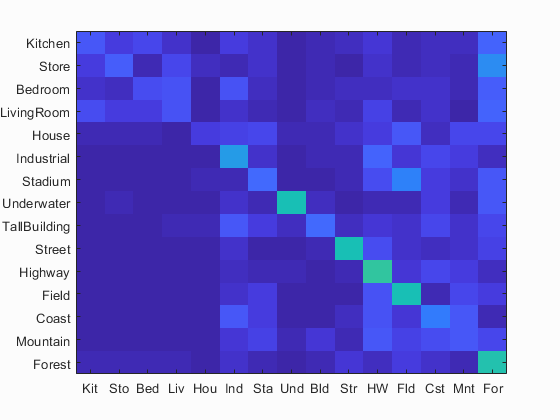
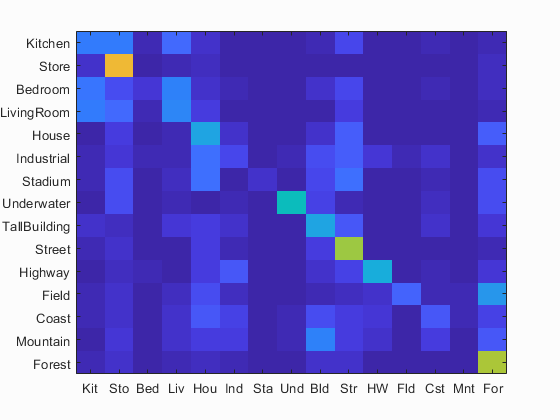
final code 2

diff --git a/Code/results_webpage/index.html b/Code/results_webpage/index.html
@@ -36,7 +36,7 @@ h1 {
 <img src="confusion_matrix.png">
 
 <br>
-Accuracy (mean of diagonal of confusion matrix) is 0.299
+Accuracy (mean of diagonal of confusion matrix) is 0.337
 <p>
 
 <table border=0 cellpadding=4 cellspacing=1>
@@ -50,183 +50,183 @@ Accuracy (mean of diagonal of confusion matrix) is 0.299
 </tr>
 <tr>
 <td>Kitchen</td>
-<td>0.160</td>
-<td bgcolor=LightBlue><img src="thumbnails/Kitchen_sun_acgtpgfybqjmzeyw.jpg" width=101 height=75></td>
-<td bgcolor=LightBlue><img src="thumbnails/Kitchen_sun_acgilwmyulcwzknd.jpg" width=101 height=75></td>
-<td bgcolor=LightGreen><img src="thumbnails/Kitchen_sun_aaxhazbcsixzxyca.jpg" width=101 height=75></td>
-<td bgcolor=LightGreen><img src="thumbnails/Kitchen_sun_aahxnzrpowefyvrp.jpg" width=113 height=75></td>
-<td bgcolor=LightCoral><img src="thumbnails/Bedroom_sun_acddebisonjmjrum.jpg" width=113 height=75><br><small>Bedroom</small></td>
-<td bgcolor=LightCoral><img src="thumbnails/House_sun_aqjtmgnkfqgtzztq.jpg" width=75 height=75><br><small>House</small></td>
-<td bgcolor=#FFBB55><img src="thumbnails/Kitchen_sun_aarfiyshqohlwkmo.jpg" width=101 height=75><br><small>LivingRoom</small></td>
-<td bgcolor=#FFBB55><img src="thumbnails/Kitchen_sun_abjslsjubphrtnmz.jpg" width=101 height=75><br><small>Store</small></td>
+<td>0.260</td>
+<td bgcolor=LightBlue><img src="thumbnails/Kitchen_sun_abrhpazvtygrpabg.jpg" width=113 height=75></td>
+<td bgcolor=LightBlue><img src="thumbnails/Kitchen_sun_acyvmyzypyuwnann.jpg" width=113 height=75></td>
+<td bgcolor=LightGreen><img src="thumbnails/Kitchen_sun_aalrsaxeqqthtwnd.jpg" width=113 height=75></td>
+<td bgcolor=LightGreen><img src="thumbnails/Kitchen_sun_aaustmdcrmpnsotk.jpg" width=101 height=75></td>
+<td bgcolor=LightCoral><img src="thumbnails/Field_sun_aktqrmsokwsuvoth.jpg" width=152 height=75><br><small>Field</small></td>
+<td bgcolor=LightCoral><img src="thumbnails/Bedroom_sun_abqcoikkmypgtrdd.jpg" width=75 height=75><br><small>Bedroom</small></td>
+<td bgcolor=#FFBB55><img src="thumbnails/Kitchen_sun_aatcxjrhafurspvj.jpg" width=50 height=75><br><small>House</small></td>
+<td bgcolor=#FFBB55><img src="thumbnails/Kitchen_sun_abhciiurocosucnf.jpg" width=75 height=75><br><small>LivingRoom</small></td>
 </tr>
 <tr>
 <td>Store</td>
-<td>0.180</td>
-<td bgcolor=LightBlue><img src="thumbnails/Store_sun_adgiqjbmhjyznpgu.jpg" width=113 height=75></td>
-<td bgcolor=LightBlue><img src="thumbnails/Store_sun_byjctpevjwseqrxf.jpg" width=101 height=75></td>
-<td bgcolor=LightGreen><img src="thumbnails/Store_sun_apjicnpesqgxbdxw.jpg" width=101 height=75></td>
+<td>0.800</td>
+<td bgcolor=LightBlue><img src="thumbnails/Store_sun_afkjwiparjsetthc.jpg" width=101 height=75></td>
+<td bgcolor=LightBlue><img src="thumbnails/Store_sun_aalfiypbfjdjzemm.jpg" width=118 height=75></td>
 <td bgcolor=LightGreen><img src="thumbnails/Store_sun_aprgkfbahwiwnnhu.jpg" width=100 height=75></td>
-<td bgcolor=LightCoral><img src="thumbnails/LivingRoom_sun_addyuymtidtjkeba.jpg" width=75 height=75><br><small>LivingRoom</small></td>
-<td bgcolor=LightCoral><img src="thumbnails/Kitchen_sun_abfxpyvmghjuoery.jpg" width=100 height=75><br><small>Kitchen</small></td>
-<td bgcolor=#FFBB55><img src="thumbnails/Store_sun_aorsamfomxnvyjdt.jpg" width=101 height=75><br><small>Forest</small></td>
-<td bgcolor=#FFBB55><img src="thumbnails/Store_sun_ahdmcrpctauhppeh.jpg" width=75 height=75><br><small>Street</small></td>
+<td bgcolor=LightGreen><img src="thumbnails/Store_sun_aqvwxcsdmkvrvkpd.jpg" width=101 height=75></td>
+<td bgcolor=LightCoral><img src="thumbnails/House_sun_asnvwxxhnvonkrkp.jpg" width=113 height=75><br><small>House</small></td>
+<td bgcolor=LightCoral><img src="thumbnails/Underwater_sun_adkjypkoinbdysor.jpg" width=101 height=75><br><small>Underwater</small></td>
+<td bgcolor=#FFBB55><img src="thumbnails/Store_sun_akrptximpgaceasz.jpg" width=113 height=75><br><small>Kitchen</small></td>
+<td bgcolor=#FFBB55><img src="thumbnails/Store_sun_ahggldqhbnigmoin.jpg" width=101 height=75><br><small>House</small></td>
 </tr>
 <tr>
 <td>Bedroom</td>
-<td>0.130</td>
-<td bgcolor=LightBlue><img src="thumbnails/Bedroom_sun_aaihqfmkpqtetkcm.jpg" width=96 height=75></td>
+<td>0.070</td>
+<td bgcolor=LightBlue><img src="thumbnails/Bedroom_sun_aaxfqfzrjwrlfwuf.jpg" width=104 height=75></td>
 <td bgcolor=LightBlue><img src="thumbnails/Bedroom_sun_aawjggvltirxefrr.jpg" width=101 height=75></td>
-<td bgcolor=LightGreen><img src="thumbnails/Bedroom_sun_acrblweratfwhjlk.jpg" width=101 height=75></td>
-<td bgcolor=LightGreen><img src="thumbnails/Bedroom_sun_acpltpfqpzmxrlic.jpg" width=113 height=75></td>
-<td bgcolor=LightCoral><img src="thumbnails/Forest_sun_aumicqkpsriqigql.jpg" width=75 height=75><br><small>Forest</small></td>
-<td bgcolor=LightCoral><img src="thumbnails/Kitchen_sun_aamjqvjnuxklyagf.jpg" width=57 height=75><br><small>Kitchen</small></td>
-<td bgcolor=#FFBB55><img src="thumbnails/Bedroom_sun_acbfjkoziukwmdkd.jpg" width=57 height=75><br><small>Highway</small></td>
-<td bgcolor=#FFBB55><img src="thumbnails/Bedroom_sun_acjiztdaadlmjhif.jpg" width=67 height=75><br><small>Kitchen</small></td>
+<td bgcolor=LightGreen><img src="thumbnails/Bedroom_sun_abvzemlagkvnzeew.jpg" width=75 height=75></td>
+<td bgcolor=LightGreen><img src="thumbnails/Bedroom_sun_acqgccujxkaytvbx.jpg" width=113 height=75></td>
+<td bgcolor=LightCoral><img src="thumbnails/Kitchen_sun_aaebjpeispxohmfv.jpg" width=105 height=75><br><small>Kitchen</small></td>
+<td bgcolor=LightCoral><img src="thumbnails/Store_sun_arcnfcmzthrstpsa.jpg" width=116 height=75><br><small>Store</small></td>
+<td bgcolor=#FFBB55><img src="thumbnails/Bedroom_sun_acddebisonjmjrum.jpg" width=113 height=75><br><small>House</small></td>
+<td bgcolor=#FFBB55><img src="thumbnails/Bedroom_sun_abmenhebvjhdawgh.jpg" width=101 height=75><br><small>Kitchen</small></td>
 </tr>
 <tr>
 <td>LivingRoom</td>
-<td>0.150</td>
-<td bgcolor=LightBlue><img src="thumbnails/LivingRoom_sun_aafhyzjkeaurxqbv.jpg" width=75 height=75></td>
-<td bgcolor=LightBlue><img src="thumbnails/LivingRoom_sun_ablsyukzgzgqfptu.jpg" width=81 height=75></td>
-<td bgcolor=LightGreen><img src="thumbnails/LivingRoom_sun_acgjjumjehdvwzdq.jpg" width=112 height=75></td>
-<td bgcolor=LightGreen><img src="thumbnails/LivingRoom_sun_acrnnwrdclnsvtby.jpg" width=75 height=75></td>
-<td bgcolor=LightCoral><img src="thumbnails/Street_sun_axkgzdlcbddcoqfl.jpg" width=75 height=75><br><small>Street</small></td>
-<td bgcolor=LightCoral><img src="thumbnails/Store_sun_anmpdotwmccmnrtr.jpg" width=75 height=75><br><small>Store</small></td>
-<td bgcolor=#FFBB55><img src="thumbnails/LivingRoom_sun_abmhxsodaptaogbq.jpg" width=110 height=75><br><small>Field</small></td>
-<td bgcolor=#FFBB55><img src="thumbnails/LivingRoom_sun_acgaxydpxiuklxvk.jpg" width=75 height=75><br><small>Store</small></td>
+<td>0.290</td>
+<td bgcolor=LightBlue><img src="thumbnails/LivingRoom_sun_aagveymsoisqqxlv.jpg" width=75 height=75></td>
+<td bgcolor=LightBlue><img src="thumbnails/LivingRoom_sun_aaqmeqbrenawkxxp.jpg" width=75 height=75></td>
+<td bgcolor=LightGreen><img src="thumbnails/LivingRoom_sun_acynqpvvxnpabyro.jpg" width=114 height=75></td>
+<td bgcolor=LightGreen><img src="thumbnails/LivingRoom_sun_addinypctrsdgwya.jpg" width=113 height=75></td>
+<td bgcolor=LightCoral><img src="thumbnails/Store_sun_aqjwciodhwilnihu.jpg" width=101 height=75><br><small>Store</small></td>
+<td bgcolor=LightCoral><img src="thumbnails/Bedroom_sun_acibkqiysswuixjr.jpg" width=57 height=75><br><small>Bedroom</small></td>
+<td bgcolor=#FFBB55><img src="thumbnails/LivingRoom_sun_adcmuipvbtjzrpmg.jpg" width=113 height=75><br><small>Kitchen</small></td>
+<td bgcolor=#FFBB55><img src="thumbnails/LivingRoom_sun_accehvvhhielogdb.jpg" width=75 height=75><br><small>Store</small></td>
 </tr>
 <tr>
 <td>House</td>
-<td>0.090</td>
-<td bgcolor=LightBlue><img src="thumbnails/House_sun_adlezyqdqzhboavh.jpg" width=75 height=75></td>
-<td bgcolor=LightBlue><img src="thumbnails/House_sun_agadklgfaixzqcdx.jpg" width=75 height=75></td>
-<td bgcolor=LightGreen><img src="thumbnails/House_sun_awoutdjtqmknttqu.jpg" width=89 height=75></td>
-<td bgcolor=LightGreen><img src="thumbnails/House_sun_baexsqstopvlczqa.jpg" width=94 height=75></td>
-<td bgcolor=LightCoral><img src="thumbnails/Street_sun_auvoyujctcsgiumc.jpg" width=75 height=75><br><small>Street</small></td>
-<td bgcolor=LightCoral><img src="thumbnails/Bedroom_sun_abrfwthdzagzztaq.jpg" width=75 height=75><br><small>Bedroom</small></td>
-<td bgcolor=#FFBB55><img src="thumbnails/House_sun_auukbqrztmufeeuk.jpg" width=99 height=75><br><small>Mountain</small></td>
-<td bgcolor=#FFBB55><img src="thumbnails/House_sun_awalzgxhnukydwfh.jpg" width=75 height=75><br><small>Industrial</small></td>
+<td>0.390</td>
+<td bgcolor=LightBlue><img src="thumbnails/House_sun_akkktcsquettazia.jpg" width=75 height=75></td>
+<td bgcolor=LightBlue><img src="thumbnails/House_sun_aibowohbydzpqdxu.jpg" width=109 height=75></td>
+<td bgcolor=LightGreen><img src="thumbnails/House_sun_arkdextmxlmcbmtl.jpg" width=75 height=75></td>
+<td bgcolor=LightGreen><img src="thumbnails/House_sun_atmxagnedtlvihld.jpg" width=75 height=75></td>
+<td bgcolor=LightCoral><img src="thumbnails/Field_sun_aiqljudoviqlwaes.jpg" width=75 height=75><br><small>Field</small></td>
+<td bgcolor=LightCoral><img src="thumbnails/Stadium_sun_aekjenipocpkloxl.jpg" width=113 height=75><br><small>Stadium</small></td>
+<td bgcolor=#FFBB55><img src="thumbnails/House_sun_bagrgybtgqawoifh.jpg" width=101 height=75><br><small>Street</small></td>
+<td bgcolor=#FFBB55><img src="thumbnails/House_sun_anyjsyphphakbpbq.jpg" width=110 height=75><br><small>Store</small></td>
 </tr>
 <tr>
 <td>Industrial</td>
-<td>0.350</td>
-<td bgcolor=LightBlue><img src="thumbnails/Industrial_sun_aznzspxqejoornbs.jpg" width=75 height=75></td>
-<td bgcolor=LightBlue><img src="thumbnails/Industrial_sun_avyysdjjjyxjbeoa.jpg" width=98 height=75></td>
-<td bgcolor=LightGreen><img src="thumbnails/Industrial_sun_agndzvxfhdciuqob.jpg" width=75 height=75></td>
-<td bgcolor=LightGreen><img src="thumbnails/Industrial_sun_akstvxwocpozpqrf.jpg" width=110 height=75></td>
-<td bgcolor=LightCoral><img src="thumbnails/Bedroom_sun_acfxerynbhnvtpab.jpg" width=75 height=75><br><small>Bedroom</small></td>
-<td bgcolor=LightCoral><img src="thumbnails/Coast_sun_aaarffxrewgissla.jpg" width=75 height=75><br><small>Coast</small></td>
-<td bgcolor=#FFBB55><img src="thumbnails/Industrial_sun_auwwqdrexendpiqt.jpg" width=99 height=75><br><small>Mountain</small></td>
-<td bgcolor=#FFBB55><img src="thumbnails/Industrial_sun_awxsoiwzmnphfasi.jpg" width=113 height=75><br><small>Mountain</small></td>
+<td>0.110</td>
+<td bgcolor=LightBlue><img src="thumbnails/Industrial_sun_akxmtzyzeobssoqs.jpg" width=75 height=75></td>
+<td bgcolor=LightBlue><img src="thumbnails/Industrial_sun_axjkvelsfrotjhti.jpg" width=75 height=75></td>
+<td bgcolor=LightGreen><img src="thumbnails/Industrial_sun_abqbyyxvedmxtutv.jpg" width=75 height=75></td>
+<td bgcolor=LightGreen><img src="thumbnails/Industrial_sun_agptkbkzgbldtlry.jpg" width=75 height=75></td>
+<td bgcolor=LightCoral><img src="thumbnails/House_sun_awyiuqdptibtzfuh.jpg" width=75 height=75><br><small>House</small></td>
+<td bgcolor=LightCoral><img src="thumbnails/Forest_sun_atmrwrneqsvfgvoh.jpg" width=75 height=75><br><small>Forest</small></td>
+<td bgcolor=#FFBB55><img src="thumbnails/Industrial_sun_azvwzrparkceqdze.jpg" width=60 height=75><br><small>Kitchen</small></td>
+<td bgcolor=#FFBB55><img src="thumbnails/Industrial_sun_alflnbhxiludczue.jpg" width=108 height=75><br><small>House</small></td>
 </tr>
 <tr>
 <td>Stadium</td>
-<td>0.210</td>
-<td bgcolor=LightBlue><img src="thumbnails/Stadium_sun_bmhvmfspirmufbdq.jpg" width=113 height=75></td>
-<td bgcolor=LightBlue><img src="thumbnails/Stadium_sun_bnpaprtetytpnpcj.jpg" width=101 height=75></td>
-<td bgcolor=LightGreen><img src="thumbnails/Stadium_sun_adtpvzvlcrbfestm.jpg" width=101 height=75></td>
-<td bgcolor=LightGreen><img src="thumbnails/Stadium_sun_adocalsqcsdehjjs.jpg" width=101 height=75></td>
-<td bgcolor=LightCoral><img src="thumbnails/House_sun_aqbegmxbmsvqrdyi.jpg" width=75 height=75><br><small>House</small></td>
-<td bgcolor=LightCoral><img src="thumbnails/Industrial_sun_bgcejxbnflggssns.jpg" width=103 height=75><br><small>Industrial</small></td>
-<td bgcolor=#FFBB55><img src="thumbnails/Stadium_sun_aeyqfhmwgjfrdyrm.jpg" width=115 height=75><br><small>Coast</small></td>
-<td bgcolor=#FFBB55><img src="thumbnails/Stadium_sun_abokpgasqaoqeoon.jpg" width=113 height=75><br><small>Field</small></td>
+<td>0.060</td>
+<td bgcolor=LightBlue><img src="thumbnails/Stadium_sun_bmecotvfoykmrmyi.jpg" width=101 height=75></td>
+<td bgcolor=LightBlue><img src="thumbnails/Stadium_sun_biuytmjiftzihfty.jpg" width=114 height=75></td>
+<td bgcolor=LightGreen><img src="thumbnails/Stadium_sun_abjchhflzcfjwmii.jpg" width=101 height=75></td>
+<td bgcolor=LightGreen><img src="thumbnails/Stadium_sun_abgafrwqrmmzarrn.jpg" width=113 height=75></td>
+<td bgcolor=LightCoral><img src="thumbnails/Field_sun_alahofzqscsnazqd.jpg" width=75 height=75><br><small>Field</small></td>
+<td bgcolor=LightCoral><img src="thumbnails/House_sun_ayhetobllsawgmnd.jpg" width=102 height=75><br><small>House</small></td>
+<td bgcolor=#FFBB55><img src="thumbnails/Stadium_sun_alkrejfunzeugccg.jpg" width=100 height=75><br><small>Kitchen</small></td>
+<td bgcolor=#FFBB55><img src="thumbnails/Stadium_sun_akppbcspfdkylkhf.jpg" width=101 height=75><br><small>Street</small></td>
 </tr>
 <tr>
 <td>Underwater</td>
-<td>0.510</td>
-<td bgcolor=LightBlue><img src="thumbnails/Underwater_sun_auldlqtjmrrfkati.jpg" width=101 height=75></td>
-<td bgcolor=LightBlue><img src="thumbnails/Underwater_sun_andydmqzeqtyxcyq.jpg" width=95 height=75></td>
-<td bgcolor=LightGreen><img src="thumbnails/Underwater_sun_aguvbkbdntbqknaq.jpg" width=101 height=75></td>
-<td bgcolor=LightGreen><img src="thumbnails/Underwater_sun_acbsnpvliwldelek.jpg" width=101 height=75></td>
-<td bgcolor=LightCoral><img src="thumbnails/Mountain_sun_aghwzplqgxjzlnyd.jpg" width=75 height=75><br><small>Mountain</small></td>
-<td bgcolor=LightCoral><img src="thumbnails/TallBuilding_sun_aepzkdbjbgivrcpd.jpg" width=75 height=75><br><small>TallBuilding</small></td>
-<td bgcolor=#FFBB55><img src="thumbnails/Underwater_sun_adlaimceocajnwtz.jpg" width=101 height=75><br><small>Mountain</small></td>
-<td bgcolor=#FFBB55><img src="thumbnails/Underwater_sun_ahqimhlnpqkcvdrc.jpg" width=57 height=75><br><small>Coast</small></td>
+<td>0.490</td>
+<td bgcolor=LightBlue><img src="thumbnails/Underwater_sun_avvmllycrsurauah.jpg" width=112 height=75></td>
+<td bgcolor=LightBlue><img src="thumbnails/Underwater_sun_aswawzdpxawhslfa.jpg" width=109 height=75></td>
+<td bgcolor=LightGreen><img src="thumbnails/Underwater_sun_adtdrtzcgbwwxeup.jpg" width=134 height=75></td>
+<td bgcolor=LightGreen><img src="thumbnails/Underwater_sun_adjuhwipwtlagrbj.jpg" width=75 height=75></td>
+<td bgcolor=LightCoral><img src="thumbnails/Coast_sun_afrnhylmaqjmqevm.jpg" width=75 height=75><br><small>Coast</small></td>
+<td bgcolor=LightCoral><img src="thumbnails/Field_sun_ajuwfyfguatiomxh.jpg" width=122 height=75><br><small>Field</small></td>
+<td bgcolor=#FFBB55><img src="thumbnails/Underwater_sun_adkjypkoinbdysor.jpg" width=101 height=75><br><small>Store</small></td>
+<td bgcolor=#FFBB55><img src="thumbnails/Underwater_sun_ahdxurulllcopwhb.jpg" width=75 height=75><br><small>Store</small></td>
 </tr>
 <tr>
 <td>TallBuilding</td>
-<td>0.210</td>
-<td bgcolor=LightBlue><img src="thumbnails/TallBuilding_sun_ajnfojgfvjoqlgnp.jpg" width=75 height=75></td>
-<td bgcolor=LightBlue><img src="thumbnails/TallBuilding_sun_ajyqytzxqawmabro.jpg" width=75 height=75></td>
-<td bgcolor=LightGreen><img src="thumbnails/TallBuilding_sun_aehzemcwfrbqwudh.jpg" width=75 height=75></td>
-<td bgcolor=LightGreen><img src="thumbnails/TallBuilding_sun_aaclfhnpacadfwfc.jpg" width=75 height=75></td>
-<td bgcolor=LightCoral><img src="thumbnails/Mountain_sun_aeowlstgpkupmtrs.jpg" width=75 height=75><br><small>Mountain</small></td>
-<td bgcolor=LightCoral><img src="thumbnails/Underwater_sun_akpduurapzogctbn.jpg" width=57 height=75><br><small>Underwater</small></td>
-<td bgcolor=#FFBB55><img src="thumbnails/TallBuilding_sun_afnrpcyqutbezqqa.jpg" width=75 height=75><br><small>Stadium</small></td>
-<td bgcolor=#FFBB55><img src="thumbnails/TallBuilding_sun_abehikbddjyqdkiz.jpg" width=75 height=75><br><small>Coast</small></td>
+<td>0.390</td>
+<td bgcolor=LightBlue><img src="thumbnails/TallBuilding_sun_alxbzgvalzyzumgs.jpg" width=75 height=75></td>
+<td bgcolor=LightBlue><img src="thumbnails/TallBuilding_sun_ajmekywagcnoclpo.jpg" width=75 height=75></td>
+<td bgcolor=LightGreen><img src="thumbnails/TallBuilding_sun_aaftlyfudyzuhqzf.jpg" width=75 height=75></td>
+<td bgcolor=LightGreen><img src="thumbnails/TallBuilding_sun_abhfmupcwoqjgoqx.jpg" width=75 height=75></td>
+<td bgcolor=LightCoral><img src="thumbnails/House_sun_aontpwfriwfsfuls.jpg" width=75 height=75><br><small>House</small></td>
+<td bgcolor=LightCoral><img src="thumbnails/Stadium_sun_aqighcqealimatur.jpg" width=101 height=75><br><small>Stadium</small></td>
+<td bgcolor=#FFBB55><img src="thumbnails/TallBuilding_sun_aiqqlqnxkcbsfydn.jpg" width=75 height=75><br><small>Street</small></td>
+<td bgcolor=#FFBB55><img src="thumbnails/TallBuilding_sun_aaxabpcjcwtyqakd.jpg" width=75 height=75><br><small>Street</small></td>
 </tr>
 <tr>
 <td>Street</td>
-<td>0.500</td>
+<td>0.700</td>
+<td bgcolor=LightBlue><img src="thumbnails/Street_sun_aaoukmfcmvbaszsu.jpg" width=75 height=75></td>
 <td bgcolor=LightBlue><img src="thumbnails/Street_sun_abxoxzsddjzrgdfi.jpg" width=75 height=75></td>
-<td bgcolor=LightBlue><img src="thumbnails/Street_sun_aczwveqpgvcxtjxr.jpg" width=75 height=75></td>
-<td bgcolor=LightGreen><img src="thumbnails/Street_sun_asovyrpfvgcfugug.jpg" width=75 height=75></td>
-<td bgcolor=LightGreen><img src="thumbnails/Street_sun_apztqewgqarrraxw.jpg" width=75 height=75></td>
-<td bgcolor=LightCoral><img src="thumbnails/Stadium_sun_ajersoqqetrcgtkd.jpg" width=109 height=75><br><small>Stadium</small></td>
-<td bgcolor=LightCoral><img src="thumbnails/Coast_sun_abwekjbuqgbqefvc.jpg" width=75 height=75><br><small>Coast</small></td>
-<td bgcolor=#FFBB55><img src="thumbnails/Street_sun_atkejtodbqhvppba.jpg" width=75 height=75><br><small>Coast</small></td>
-<td bgcolor=#FFBB55><img src="thumbnails/Street_sun_aptjvtqmuhhyvhuq.jpg" width=75 height=75><br><small>Forest</small></td>
+<td bgcolor=LightGreen><img src="thumbnails/Street_sun_awvwzpmymymcviha.jpg" width=75 height=75></td>
+<td bgcolor=LightGreen><img src="thumbnails/Street_sun_arubnkxrpngvgatb.jpg" width=75 height=75></td>
+<td bgcolor=LightCoral><img src="thumbnails/Mountain_sun_aizdwdtxekhhwjyk.jpg" width=75 height=75><br><small>Mountain</small></td>
+<td bgcolor=LightCoral><img src="thumbnails/Kitchen_sun_aaqwvmvwjznneezj.jpg" width=75 height=75><br><small>Kitchen</small></td>
+<td bgcolor=#FFBB55><img src="thumbnails/Street_sun_arvclwpcycqxhtuw.jpg" width=75 height=75><br><small>House</small></td>
+<td bgcolor=#FFBB55><img src="thumbnails/Street_sun_aukhrtczcxtnzqnw.jpg" width=75 height=75><br><small>House</small></td>
 </tr>
 <tr>
 <td>Highway</td>
-<td>0.550</td>
-<td bgcolor=LightBlue><img src="thumbnails/Highway_sun_ajrmvydockofxbmc.jpg" width=75 height=75></td>
-<td bgcolor=LightBlue><img src="thumbnails/Highway_sun_alngiumhylspeuor.jpg" width=75 height=75></td>
-<td bgcolor=LightGreen><img src="thumbnails/Highway_sun_abqpmuaphnohlndh.jpg" width=75 height=75></td>
-<td bgcolor=LightGreen><img src="thumbnails/Highway_sun_acjmvpnqcohuikvh.jpg" width=75 height=75></td>
-<td bgcolor=LightCoral><img src="thumbnails/Field_sun_ajdixmwjojvptuzy.jpg" width=99 height=75><br><small>Field</small></td>
-<td bgcolor=LightCoral><img src="thumbnails/Forest_sun_avldsnrntudkzowh.jpg" width=75 height=75><br><small>Forest</small></td>
-<td bgcolor=#FFBB55><img src="thumbnails/Highway_sun_adaebhgozgdowgng.jpg" width=120 height=75><br><small>Street</small></td>
-<td bgcolor=#FFBB55><img src="thumbnails/Highway_sun_abjrlpjcricwloej.jpg" width=104 height=75><br><small>Industrial</small></td>
+<td>0.420</td>
+<td bgcolor=LightBlue><img src="thumbnails/Highway_sun_altvjtcdpogizvdt.jpg" width=75 height=75></td>
+<td bgcolor=LightBlue><img src="thumbnails/Highway_sun_agwftyvijadukmms.jpg" width=75 height=75></td>
+<td bgcolor=LightGreen><img src="thumbnails/Highway_sun_adhnzylesmrmevvt.jpg" width=105 height=75></td>
+<td bgcolor=LightGreen><img src="thumbnails/Highway_sun_abwgvchaqkjqdckd.jpg" width=75 height=75></td>
+<td bgcolor=LightCoral><img src="thumbnails/Industrial_sun_aypartoqtiqxtytm.jpg" width=71 height=75><br><small>Industrial</small></td>
+<td bgcolor=LightCoral><img src="thumbnails/Field_sun_akfzxmvbtwuznhli.jpg" width=75 height=75><br><small>Field</small></td>
+<td bgcolor=#FFBB55><img src="thumbnails/Highway_sun_aeiqdwbssdzmbqec.jpg" width=101 height=75><br><small>House</small></td>
+<td bgcolor=#FFBB55><img src="thumbnails/Highway_sun_acpvugnkzrliaqir.jpg" width=101 height=75><br><small>Street</small></td>
 </tr>
 <tr>
 <td>Field</td>
-<td>0.500</td>
-<td bgcolor=LightBlue><img src="thumbnails/Field_sun_abzmppmowwqdcqov.jpg" width=115 height=75></td>
-<td bgcolor=LightBlue><img src="thumbnails/Field_sun_abgskogoveimefmq.jpg" width=75 height=75></td>
-<td bgcolor=LightGreen><img src="thumbnails/Field_sun_ajrsruozxbobnleu.jpg" width=75 height=75></td>
-<td bgcolor=LightGreen><img src="thumbnails/Field_sun_agjwmwyktbyoiumh.jpg" width=57 height=75></td>
-<td bgcolor=LightCoral><img src="thumbnails/Stadium_sun_ahzzktdsjbeosrow.jpg" width=101 height=75><br><small>Stadium</small></td>
-<td bgcolor=LightCoral><img src="thumbnails/Mountain_sun_absddryibdeqqvqf.jpg" width=75 height=75><br><small>Mountain</small></td>
-<td bgcolor=#FFBB55><img src="thumbnails/Field_sun_amzycvfigmisznhx.jpg" width=75 height=75><br><small>Stadium</small></td>
-<td bgcolor=#FFBB55><img src="thumbnails/Field_sun_almlgptqaohhgemk.jpg" width=113 height=75><br><small>Mountain</small></td>
+<td>0.190</td>
+<td bgcolor=LightBlue><img src="thumbnails/Field_sun_afgowtkcyvyoywrj.jpg" width=75 height=75></td>
+<td bgcolor=LightBlue><img src="thumbnails/Field_sun_aenxooxavycbwfye.jpg" width=75 height=75></td>
+<td bgcolor=LightGreen><img src="thumbnails/Field_sun_ahcezgbwcnwylvlr.jpg" width=75 height=75></td>
+<td bgcolor=LightGreen><img src="thumbnails/Field_sun_alnnhoadqvpwfrmq.jpg" width=75 height=75></td>
+<td bgcolor=LightCoral><img src="thumbnails/Industrial_sun_agndzvxfhdciuqob.jpg" width=75 height=75><br><small>Industrial</small></td>
+<td bgcolor=LightCoral><img src="thumbnails/Industrial_sun_awrwtixhaxaqlawt.jpg" width=75 height=75><br><small>Industrial</small></td>
+<td bgcolor=#FFBB55><img src="thumbnails/Field_sun_agihdmnadqgballp.jpg" width=75 height=75><br><small>House</small></td>
+<td bgcolor=#FFBB55><img src="thumbnails/Field_sun_alklobicberfcgtp.jpg" width=75 height=75><br><small>Forest</small></td>
 </tr>
 <tr>
 <td>Coast</td>
-<td>0.250</td>
-<td bgcolor=LightBlue><img src="thumbnails/Coast_sun_ajrrowgsthflssaj.jpg" width=75 height=75></td>
-<td bgcolor=LightBlue><img src="thumbnails/Coast_sun_aiqxigwlofcqgcvd.jpg" width=101 height=75></td>
-<td bgcolor=LightGreen><img src="thumbnails/Coast_sun_aevdotmpzjqmardj.jpg" width=75 height=75></td>
-<td bgcolor=LightGreen><img src="thumbnails/Coast_sun_aaazwlvavwqcbwyb.jpg" width=75 height=75></td>
-<td bgcolor=LightCoral><img src="thumbnails/Underwater_sun_abaeqpcicinwtnal.jpg" width=113 height=75><br><small>Underwater</small></td>
-<td bgcolor=LightCoral><img src="thumbnails/Street_sun_atkejtodbqhvppba.jpg" width=75 height=75><br><small>Street</small></td>
-<td bgcolor=#FFBB55><img src="thumbnails/Coast_sun_aaxfjkdosftycscz.jpg" width=75 height=75><br><small>Industrial</small></td>
-<td bgcolor=#FFBB55><img src="thumbnails/Coast_sun_abccpuctijrowssc.jpg" width=75 height=75><br><small>Stadium</small></td>
+<td>0.160</td>
+<td bgcolor=LightBlue><img src="thumbnails/Coast_sun_aibmqskivshqhvzt.jpg" width=101 height=75></td>
+<td bgcolor=LightBlue><img src="thumbnails/Coast_sun_ajbuymrtkyjgiilt.jpg" width=50 height=75></td>
+<td bgcolor=LightGreen><img src="thumbnails/Coast_sun_adimlottnbmkxzfv.jpg" width=75 height=75></td>
+<td bgcolor=LightGreen><img src="thumbnails/Coast_sun_abxzpoxzshixiiap.jpg" width=75 height=75></td>
+<td bgcolor=LightCoral><img src="thumbnails/Mountain_sun_aluahshoybckedqr.jpg" width=101 height=75><br><small>Mountain</small></td>
+<td bgcolor=LightCoral><img src="thumbnails/Mountain_sun_almiugsdxbhpwxtw.jpg" width=75 height=75><br><small>Mountain</small></td>
+<td bgcolor=#FFBB55><img src="thumbnails/Coast_sun_affryxqxjwpguhch.jpg" width=116 height=75><br><small>Highway</small></td>
+<td bgcolor=#FFBB55><img src="thumbnails/Coast_sun_aaxdteuqwxqutknt.jpg" width=101 height=75><br><small>House</small></td>
 </tr>
 <tr>
 <td>Mountain</td>
-<td>0.170</td>
-<td bgcolor=LightBlue><img src="thumbnails/Mountain_sun_atpqyucvcnepyynj.jpg" width=101 height=75></td>
-<td bgcolor=LightBlue><img src="thumbnails/Mountain_sun_axqyztvuvcflmidb.jpg" width=135 height=75></td>
-<td bgcolor=LightGreen><img src="thumbnails/Mountain_sun_apexqmjjqdcobtpo.jpg" width=75 height=75></td>
-<td bgcolor=LightGreen><img src="thumbnails/Mountain_sun_ahqjdsrnnpyfnajz.jpg" width=111 height=75></td>
-<td bgcolor=LightCoral><img src="thumbnails/Store_sun_akvbweqbpvqdpevh.jpg" width=101 height=75><br><small>Store</small></td>
-<td bgcolor=LightCoral><img src="thumbnails/Kitchen_sun_aaebjpeispxohmfv.jpg" width=105 height=75><br><small>Kitchen</small></td>
-<td bgcolor=#FFBB55><img src="thumbnails/Mountain_sun_ampqqbnbvuutluaj.jpg" width=50 height=75><br><small>Field</small></td>
-<td bgcolor=#FFBB55><img src="thumbnails/Mountain_sun_amnrgzukienrhagm.jpg" width=75 height=75><br><small>Forest</small></td>
+<td>0.010</td>
+<td bgcolor=LightBlue><img src="thumbnails/Mountain_sun_avwmsuhqcprieulh.jpg" width=114 height=75></td>
+<td bgcolor=LightBlue><img src="thumbnails/Mountain_sun_azjtinkdvbcxsqhe.jpg" width=75 height=75></td>
+<td bgcolor=LightGreen><img src="thumbnails/Mountain_sun_ajlvjxlreluvbtmn.jpg" width=112 height=75></td>
+<td bgcolor=LightGreen></td>
+<td bgcolor=LightCoral><img src="thumbnails/Coast_sun_aemxhevkfugscmmq.jpg" width=57 height=75><br><small>Coast</small></td>
+<td bgcolor=LightCoral><img src="thumbnails/Forest_sun_amyhfuvsbaizwnwy.jpg" width=75 height=75><br><small>Forest</small></td>
+<td bgcolor=#FFBB55><img src="thumbnails/Mountain_sun_ahekiunfgsyehcbg.jpg" width=75 height=75><br><small>TallBuilding</small></td>
+<td bgcolor=#FFBB55><img src="thumbnails/Mountain_sun_aisoanykutqqgevm.jpg" width=75 height=75><br><small>Street</small></td>
 </tr>
 <tr>
 <td>Forest</td>
-<td>0.520</td>
-<td bgcolor=LightBlue><img src="thumbnails/Forest_sun_ajshfbacwbjhknyh.jpg" width=75 height=75></td>
-<td bgcolor=LightBlue><img src="thumbnails/Forest_sun_afqtsivgxsxbjlok.jpg" width=75 height=75></td>
-<td bgcolor=LightGreen><img src="thumbnails/Forest_sun_aqxqzdeqnlrkfuhn.jpg" width=75 height=75></td>
-<td bgcolor=LightGreen><img src="thumbnails/Forest_sun_agwyclxutravmwnp.jpg" width=75 height=75></td>
-<td bgcolor=LightCoral><img src="thumbnails/LivingRoom_sun_actypfeleicplgxs.jpg" width=113 height=75><br><small>LivingRoom</small></td>
-<td bgcolor=LightCoral><img src="thumbnails/Store_sun_ansfwzswqwwmejve.jpg" width=101 height=75><br><small>Store</small></td>
-<td bgcolor=#FFBB55><img src="thumbnails/Forest_sun_arepffrwpettjdji.jpg" width=75 height=75><br><small>TallBuilding</small></td>
-<td bgcolor=#FFBB55><img src="thumbnails/Forest_sun_aldigqqshvnhfkng.jpg" width=75 height=75><br><small>Field</small></td>
+<td>0.710</td>
+<td bgcolor=LightBlue><img src="thumbnails/Forest_sun_acehnjqlajfvhqkc.jpg" width=75 height=75></td>
+<td bgcolor=LightBlue><img src="thumbnails/Forest_sun_afmblyumohrfkngc.jpg" width=57 height=75></td>
+<td bgcolor=LightGreen><img src="thumbnails/Forest_sun_anvrixbclgrqwwyg.jpg" width=116 height=75></td>
+<td bgcolor=LightGreen><img src="thumbnails/Forest_sun_apfxmcvujzcxypuq.jpg" width=75 height=75></td>
+<td bgcolor=LightCoral><img src="thumbnails/Field_sun_alnriaasqpkjypiw.jpg" width=113 height=75><br><small>Field</small></td>
+<td bgcolor=LightCoral><img src="thumbnails/Coast_sun_adbdqsmadegqdglp.jpg" width=105 height=75><br><small>Coast</small></td>
+<td bgcolor=#FFBB55><img src="thumbnails/Forest_sun_alwbpqvgrcjjlckk.jpg" width=75 height=75><br><small>Street</small></td>
+<td bgcolor=#FFBB55><img src="thumbnails/Forest_sun_awchwppuydqjifvx.jpg" width=75 height=75><br><small>LivingRoom</small></td>
 </tr>
 <tr>
 <th>Category name</th>

diff --git a/Code/color_histogram.m b/Code/color_histogram.m
@@ -1,0 +1,27 @@
+function [chist] = color_histogram(img)
+
+%img = rgb2hsv(img);
+img = double(img);
+imquant = img/255;
+imquant = round(imquant*(16-1))+1;
+
+chist = zeros(16, 16, 16);
+
+[height,width,color] = size(imquant);
+
+   for i = 1:height
+       for j = 1:width
+           rpixel = imquant(i,j,1);
+           gpixel = imquant(i,j,2);
+           bpixel = imquant(i,j,3);
+           
+          % total = total + rpixel + gpixel + bpixel;
+           
+           chist(rpixel,gpixel,bpixel) = chist(rpixel,gpixel,bpixel) + 1;
+       end 
+   end
+
+   chist = reshape(chist,1,4096);
+   
+   
+end

diff --git a/Code/get_colour_histograms.m b/Code/get_colour_histograms.m
@@ -8,7 +8,7 @@ for i = 1:length(files)
     test_file = fullfile(files{i});
     test_im = imread(test_file); %test image
     test_imCon = rgb2ycbcr(test_im); %convert rgb to ycbcr
-    chist_test = generateColourHistogram(test_im);
+    chist_test = color_histogram(test_im);
     value = chist_test;
     vec = [vec;value];
 

diff --git a/Code/coursework_starter.m b/Code/coursework_starter.m
@@ -16,8 +16,8 @@
 %implementation. You need to reimplement the above two functions and also
 %implement the 'colour histogram' feature extraction.
 
-FEATURE = 'tiny image';
-%FEATURE = 'colour histogram';
+%FEATURE = 'tiny image';
+FEATURE = 'colour histogram';
 
 CLASSIFIER = 'nearest neighbor';
 
